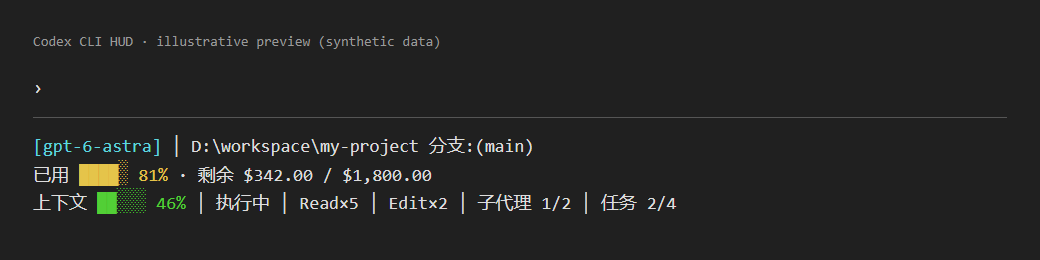
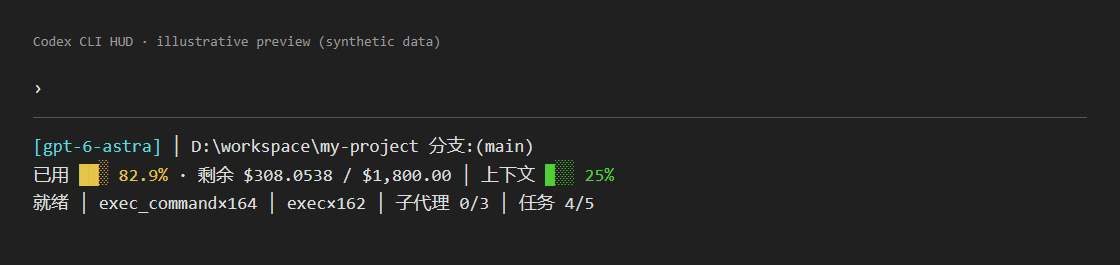
Keep quota and context together for a cleaner native footer
Place quota and context on the same row with shorter bars, reserving the third row for activity. Keep run state visible during activity pagination and preserve quota precision. Update preview and package version for local upgrade.

Tested: Full suite, syntax checks, build, 8-76 column renderer cases, visual preview
Not-tested: Live terminal redraw in an existing session
Scope-risk: narrow

diff --git a/scripts/quota-hud-render.js b/scripts/quota-hud-render.js
@@ -250,20 +250,21 @@ function activitySegments(activity, runState) {
   return result;
 }
 
-function activityRow(context, segments, width, now) {
-  const prefix = `上下文 ${bar(context, 5)}`;
-  if (!segments.length) return fit(`上下文 ${bar(context, 10)}`, width);
-  const simple = [prefix, ...segments].join(" │ ");
+function activityRow(segments, width, now) {
+  if (!segments.length) return "";
+  const simple = segments.join(" │ ");
   if (cellWidth(simple) <= width) return simple;
-  const budget = Math.max(1, width - cellWidth(prefix) - 11);
+  const pinned = ["启动中", "就绪", "执行中", "等待中", "思考中"].includes(segments[0]) ? segments[0] + " │ " : "";
+  const remaining = pinned ? segments.slice(1) : segments;
+  const budget = Math.max(1, width - cellWidth(pinned) - 8);
   const pages = [];
-  for (const segment of segments) {
+  for (const segment of remaining) {
     const last = pages.at(-1);
     if (last && cellWidth(last + " · " + segment) <= budget) pages[pages.length - 1] += " · " + segment;
     else pages.push(fit(segment, budget));
   }
   const page = Math.floor(now / 5000) % pages.length;
-  return fit(`${prefix} │ [${page + 1}/${pages.length}] ${pages[page]}`, width);
+  return fit(`${pinned}[${page + 1}/${pages.length}] ${pages[page]}`, width);
 }
 
 function render(snapshot = {}, options = {}) {
@@ -305,11 +306,16 @@ function render(snapshot = {}, options = {}) {
   const officialOnly = cowork?.status === "official" || (!cowork && Boolean(official));
   const activity = activitySegments(snapshot.activity, snapshot.runState);
   const activityWithOfficial = [...activity, ...(officialOnly ? [] : officialSegments)];
-  const rows = options.native ? [fit(title, width),
-    officialOnly ? nativeUsageRow(undefined, official, officialState, now, width, false) :
-      nativeProviderRow(cowork, providerName, providerKind, coworkState, coworkSegments.length ? coworkSegments : rawWindows.length || coworkState ? [] : ["暂无数据"], rawWindows, unit, now, width),
-    activity.length ? activityRow(snapshot.contextPercent, activityWithOfficial, width, now) :
-      nativeUsageRow(snapshot.contextPercent, officialOnly ? undefined : official, officialState, now, width),
+  const contextLabel = `上下文 ${compactUsage(snapshot.contextPercent, width >= 60 ? 3 : 0)}`;
+  const quotaWidth = Math.max(1, width - cellWidth(contextLabel) - 3);
+  const compactSummary = coworkSegments.map(segment => segment.replace(/([█░]+) (\d+(?:\.\d+)?)%/g,
+    (_, glyphs, value) => bar(Number(value), 3)));
+  const quotaRow = officialOnly ? nativeUsageRow(undefined, official, officialState, now, quotaWidth, false) :
+    nativeProviderRow(cowork, providerName, providerKind, coworkState,
+      compactSummary.length ? compactSummary : rawWindows.length || coworkState ? [] : ["暂无数据"], rawWindows, unit, now, quotaWidth);
+  const usageRow = cellWidth(contextLabel) + 4 > width ? fit(contextLabel, width) : `${quotaRow} │ ${contextLabel}`;
+  const rows = options.native ? [fit(title, width), usageRow,
+    activityRow(activityWithOfficial, width, now),
   ] : [fit(title, width),
     ...layout(officialOnly ? officialSegments : [[coworkLabel, coworkSummary].filter(Boolean).join(" · "), ...coworkWindows], width),
     ...layout([`上下文 ${bar(snapshot.contextPercent, size)}`, ...activityWithOfficial], width)];

diff --git a/scripts/test-quota-hud.js b/scripts/test-quota-hud.js
@@ -37,7 +37,7 @@ async function testDescriptorsAndDetachedCollection() {
   const state={thread:{model:{display_name:"Model-A"},workspace:{cwd:"project-A"},usage:{context:{used_percentage:12}}},account:{rate_limits:[{limit_id:"codex",primary_limit:{used_percent:90,window_minutes:300}}]}};
   const start=performance.now();const first=read(provider,state);
   assert.ok(performance.now()-start<1000);assert.match(first,/Model-A/);assert.match(first,/12%/);assert.doesNotMatch(first,/OpenAI/);
-  assert.equal(first.split("\n")[1], "\u67e5\u8be2\u4e2d");
+  assert.match(first.split("\n")[1], /^查询中.*上下文.*12%$/);
   await Promise.resolve();assert.equal(calls,1);
   await new Promise(r=>setTimeout(r,1100));read(provider,state);assert.equal(calls,1);
   pending.resolve({status:"ok",kind:"sub2api",name:"Current API",remaining:42,unit:"USD"});

diff --git a/scripts/build-quota-plugin.js b/scripts/build-quota-plugin.js
@@ -15,7 +15,7 @@ json(".agents/plugins/marketplace.json", {
     policy: { installation: "AVAILABLE", authentication: "ON_INSTALL" }, category: "Productivity" }],
 });
 json("plugins/quota-hud/.codex-plugin/plugin.json", {
-  name: "quota-hud", version: "1.2.0", description: "Codex CLI HUD: subscription quotas, workspace, context and live session activity.",
+  name: "quota-hud", version: "1.2.1", description: "Codex CLI HUD: subscription quotas, workspace, context and live session activity.",
   license: "MIT", mcpServers: "./.mcp.json",
   interface: { displayName: "Codex CLI HUD", shortDescription: "Quotas, context, workspace and tools in a native footer.", category: "Productivity" },
 });

diff --git a/scripts/quota-hud.js b/scripts/quota-hud.js
@@ -92,7 +92,7 @@ function createProvider(options = {}) {
   }
   function respond(method, params = {}) {
     switch (method) {
-      case "initialize": return { protocolVersion: "2025-06-18", capabilities: { tools: {}, resources: {} }, serverInfo: { name: "codex-quota-hud", version: "1.2.0" } };
+      case "initialize": return { protocolVersion: "2025-06-18", capabilities: { tools: {}, resources: {} }, serverInfo: { name: "codex-quota-hud", version: "1.2.1" } };
       case "ping": return {};
       case "tools/list": return { tools: [TOOL] };
       case "tools/call":

diff --git a/README.md b/README.md
@@ -8,6 +8,8 @@ A Claude HUD-style statusline for Codex CLI: current provider quota, context usa
 
 *Illustrative preview with synthetic values; actual values come from your current session.*
 
+The native footer uses three rows: model and directory; quota beside context usage; run state and tool activity. Long content rotates through pages while context stays visible.
+
 ## What it shows
 
 - Model and working directory. Long paths are truncated to fit the terminal.
